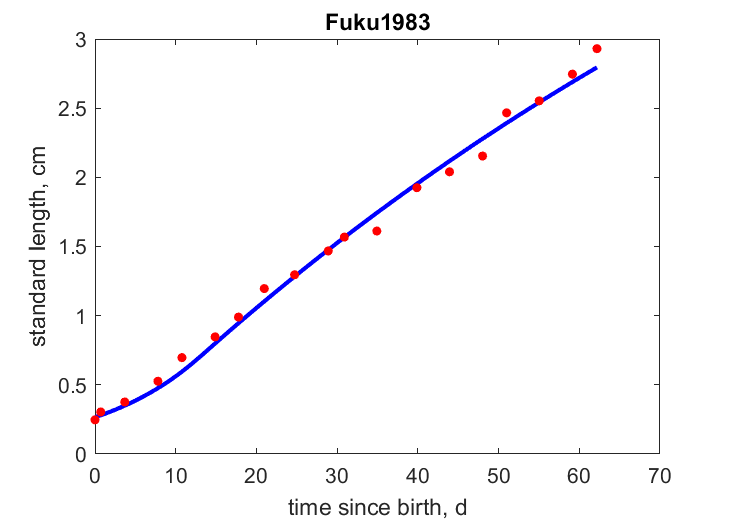
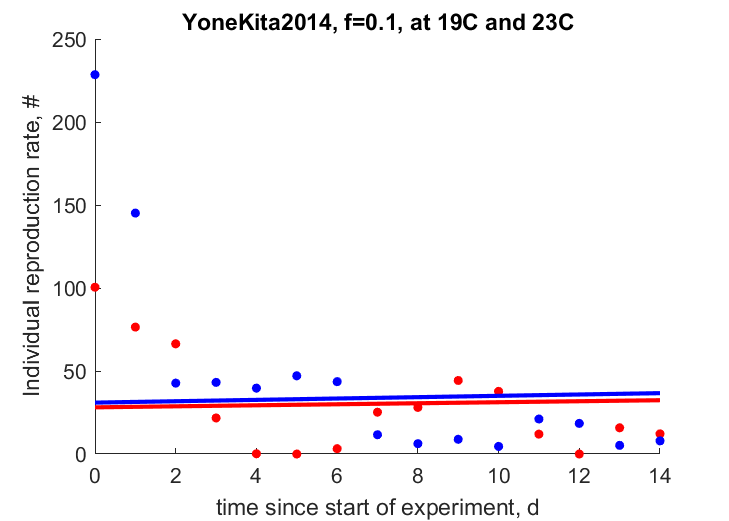
Added the remaining t-R datasets
Added the other t-R datasets, but unable to complete an nm estimation.

diff --git a/Engraulis_japonicus_res.html b/Engraulis_japonicus_res.html
@@ -44,7 +44,7 @@
   </div>
 
   <div class="par">
-  <h4>COMPLETE = 2.5; MRE =    0.092; SMSE =    0.109 </h4>
+  <h4>COMPLETE = 2.5; MRE =    0.182; SMSE =    0.309 </h4>
   </div>
 
   <p class="clear"></p>
@@ -69,6 +69,10 @@
     <TR><TD colspan="2">see figure</TD> <TD>0.06507</TD> <TD>Tah</TD> <TD colspan="2">temperature, <font color="blue"><i>vs.</i></font> age at hatching</TD>
     <TR><TD colspan="2">see figure</TD> <TD>0.2239</TD> <TD>tR_f1_19</TD> <TD colspan="2">time since start of experiment, <font color="blue"><i>vs.</i></font> Individual reproduction rate</TD>
     <TR><TD colspan="2">see figure</TD> <TD>0.2084</TD> <TD>tR_f1_23</TD> <TD colspan="2">time since start of experiment, <font color="blue"><i>vs.</i></font> Individual reproduction rate</TD>
+    <TR><TD colspan="2">see figure</TD> <TD>0.4127</TD> <TD>tR_f35_19</TD> <TD colspan="2">time since start of experiment, <font color="blue"><i>vs.</i></font> Individual reproduction rate</TD>
+    <TR><TD colspan="2">see figure</TD> <TD>0.3729</TD> <TD>tR_f35_23</TD> <TD colspan="2">time since start of experiment, <font color="blue"><i>vs.</i></font> Individual reproduction rate</TD>
+    <TR><TD colspan="2">see figure</TD> <TD>0.8262</TD> <TD>tR_f0_19</TD> <TD colspan="2">time since start of experiment, <font color="blue"><i>vs.</i></font> Individual reproduction rate</TD>
+    <TR><TD colspan="2">see figure</TD> <TD>0.8349</TD> <TD>tR_f0_23</TD> <TD colspan="2">time since start of experiment, <font color="blue"><i>vs.</i></font> Individual reproduction rate</TD>
     <TR><TD colspan="2">see figure</TD> <TD>0.1272</TD> <TD>tL</TD> <TD colspan="2">time since birth, <font color="blue"><i>vs.</i></font> standard length</TD>
     <TR><TD colspan="2">see figure</TD> <TD>0.0382</TD> <TD>tLj</TD> <TD colspan="2">time since birth, <font color="blue"><i>vs.</i></font> standard length</TD>
     <TR><TD colspan="2">see figure</TD> <TD>0.1713</TD> <TD>LW</TD> <TD colspan="2">standard length, <font color="blue"><i>vs.</i></font> wet weight</TD>
@@ -105,7 +109,7 @@
     <TR><TD>h_a</TD> <TD>1/d^2</TD> <TD>3.179e-08</TD> <TD>0</TD> <TD>Weibull aging acceleration</TD></TR>
     <TR><TD>s_G</TD> <TD>-</TD> <TD>0.0001</TD> <TD>0</TD> <TD>Gompertz stress coefficient</TD></TR>
     <TR><TD>E_Hh</TD> <TD>J</TD> <TD>0.0616</TD> <TD>0</TD> <TD>maturity at hatching</TD></TR>
-    <TR><TD>E_Hpm</TD> <TD>J</TD> <TD>5767</TD> <TD>1</TD> <TD>maturity at puberty for males</TD></TR>
+    <TR><TD>E_Hpm</TD> <TD>J</TD> <TD>5767</TD> <TD>0</TD> <TD>maturity at puberty for males</TD></TR>
     <TR><TD>del_M</TD> <TD>-</TD> <TD>0.2011</TD> <TD>1</TD> <TD>shape coefficient for standard length</TD></TR>
     <TR><TD>f</TD> <TD>-</TD> <TD>  1</TD> <TD>0</TD> <TD>scaled functional response for 0-var data</TD></TR>
     <TR><TD>f_0</TD> <TD>-</TD> <TD>0.1</TD> <TD>1</TD> <TD>scaled functional response for N-T 0 food data</TD></TR>

diff --git a/mydata_Engraulis_japonicus.m b/mydata_Engraulis_japonicus.m
@@ -116,16 +116,12 @@ bibkey.tR_f1_23 = 'YoneKita2014';
 comment.tR_f1_23 = 'Mean # of eggs in tank per day from 50 individuals, averaged from 2 tanks of 50 individuals with identical treatment. Adults of unknown weight and age. Avg length one week before data = 9.63cm Body Length. Food treatment after 1 week ad libitum acclimation period. Ad libitum considered 5% BW d^−1, low food considered 1.75% BW d^−1';
 L0.tR_f1_23 = 9.63; units.L0.tR_f1_23 = 'cm'; label.L0.tR_f1_23 = 'Avg body length one week before data';
 
-%{
-% @Neil: you need to divide by 50 here and later (I included in tR_f1_23); also change labels to R (marking the repro rate) 
-as oposed to N (number of eggs) because it is more accurate. Sorry, I forgot about this when proposing N :)
-
 data.tR_f35_19 = [... %time since start of feeding experiment (d) - Daily reproduction (#eggs) 
-0	1	2	3	4	5	6	7	8	9	10	11	12	13	14
-6345	9015.5	8308	4626.5	7913.5	6416	3161.5	5886.5	7306	5266	2375.5	3333.5	1360.5	2496	4965.5
+0 1	2 3 4 5 6 7 8 9 10 11 12 13 14
+6345 9015.5 8308 4626.5 7913.5 6416 3161.5 5886.5 7306 5266 2375.5 3333.5 1360.5 2496 4965.5
 ]';
 data.tR_f35_19(:,2) = data.tR_f35_19(:,2)/50; % # of eggs in tank per day / # of individuals in tank
-units.tR_f35_19  = {'d', '#'};  label.tR_f35_19 = {'time since start of experiment', 'daily # of eggs'};  
+units.tR_f35_19  = {'d', '#'};  label.tR_f35_19 = {'time since start of experiment', 'Individual reproduction rate'};  
 temp.tR_f35_19   = C2K(19.5);  units.temp.tR_f35_19 = 'K'; label.temp.tR_f35_19 = 'temperature';
 bibkey.tR_f35_19 = 'YoneKita2014';
 comment.tR_f35_19 = 'Mean # of eggs in tank per day from 50 individuals, averaged from 2 tanks of 50 individuals with identical treatment. Adults of unknown weight and age. Avg length one week before data = 9.4cm Body Length. Food treatment after 1 week ad libitum acclimation period. Ad libitum considered 5% BW d^−1, low food considered 1.75% BW d^−1';
@@ -136,8 +132,8 @@ data.tR_f35_23 = [... %time since start of feeding experiment (d) - Daily reprod
 14210	15548	3830.5	8146.5	8980.5	10675.5	6743.5	5281	5690	5314	6043	5549	4766.5	6080.5	3704.5
 ]';
 data.tR_f35_23(:,2) = data.tR_f35_23(:,2)/50; % # of eggs in tank per day / # of individuals in tank
-units.tR_f35_23  = {'d', '#'};  label.tR_f35_23 = {'time since start of experiment', 'daily # of eggs'};  
-temp.tR_f35_23   = C2K(23.7);  units.temp.tR_f35_23 = 'K'; label.temp.tR_f35_23 = 'temperature';
+units.tR_f35_23 = {'d', '#'};  label.tR_f35_23 = {'time since start of experiment', 'Individual reproduction rate'};  
+temp.tR_f35_23 = C2K(23.7);  units.temp.tR_f35_23 = 'K'; label.temp.tR_f35_23 = 'temperature';
 bibkey.tR_f35_23 = 'YoneKita2014';
 comment.tR_f35_23 = 'Mean # of eggs in tank per day from 50 individuals, averaged from 2 tanks of 50 individuals with identical treatment. Adults of unknown weight and age. Avg length one week before data = 9.63cm Body Length. Food treatment after 1 week ad libitum acclimation period. Ad libitum considered 5% BW d^−1, low food considered 1.75% BW d^−1';
 L0.tR_f35_23 = 9.63;  units.L0.tR_f35_23 = 'cm'; label.L0.tR_f35_23 = 'Avg body length one week before data';
@@ -146,8 +142,8 @@ data.tR_f0_19 = [... %time since start of feeding experiment (d) - Daily reprodu
 0	1	2	3	4	5	6	7	8	9	10	11	12	13	14
 5024	3823	3318	1084.5	7	0	160.5	1258.5	1403.5	2214.5	1887.5	599	0	789.5	607
 ]';
-data.tR_f35_19(:,2) = data.tR_f35_19(:,2)/50; % # of eggs in tank per day / # of individuals in tank
-units.tR_f0_19  = {'d', '#'};  label.tR_f0_19 = {'time since start of experiment', 'daily # of eggs'};  
+data.tR_f0_19(:,2) = data.tR_f0_19(:,2)/50; % # of eggs in tank per day / # of individuals in tank
+units.tR_f0_19  = {'d', '#'};  label.tR_f0_19 = {'time since start of experiment', 'Individual reproduction rate'};  
 temp.tR_f0_19 = C2K(19.5);  units.temp.tR_f0_19 = 'K'; label.temp.tR_f0_19 = 'temperature';
 bibkey.tR_f0_19 = 'YoneKita2014';
 comment.tR_f0_19 = 'Mean # of eggs in tank per day from 50 individuals, averaged from 2 tanks of 50 individuals with identical treatment. Adults of unknown weight and age. Avg length one week before data = 9.4cm Body Length. Food treatment after 1 week ad libitum acclimation period. Ad libitum considered 5% BW d^−1, low food considered 1.75% BW d^−1';
@@ -158,12 +154,11 @@ data.tR_f0_23 = [... %time since start of feeding experiment (d) - Daily reprodu
 11425	7257	2135.5	2156.5	1983.5	2355	2179.5	580.5	311	443.5	228	1054.5	921.5	261.5	395.5
 ]';
 data.tR_f0_23(:,2) = data.tR_f0_23(:,2)/50; % # of eggs in tank per day / # of individuals in tank
-units.tR_f0_23 = {'d', '#'}; label.tR_f0_23 = {'time since start of experiment', 'daily # of eggs'};  
+units.tR_f0_23 = {'d', '#'}; label.tR_f0_23 = {'time since start of experiment', 'Individual reproduction rate'};  
 temp.tR_f0_23 = C2K(23.7); units.temp.tR_f0_23 = 'K'; label.temp.tR_f0_23 = 'temperature';
 bibkey.tR_f0_23 = 'YoneKita2014';
 comment.tR_f0_23 = 'Mean # of eggs in tank per day from 50 individuals, averaged from 2 tanks of 50 individuals with identical treatment. Adults of unknown weight and age. Avg length one week before data = 9.63cm Body Length. Food treatment after 1 week ad libitum acclimation period. Ad libitum considered 5% BW d^−1, low food considered 1.75% BW d^−1';
 L0.tR_f0_23 = 9.63;  units.L0.tR_f0_23 = 'cm'; label.L0.tR_f0_23 = 'Avg body length one week before data';
-%}
 
 % time-Length
 data.tL = [ ... % time since birth (d), standard length (cm)
@@ -215,9 +210,11 @@ txtData.comment = comment;
 
 %% Group plots
 set1 = {'tR_f1_19','tR_f1_23'}; comment1 = {'YoneKita2014, f=1, at 19C and 23C'};
-metaData.grp.sets = {set1};
-metaData.grp.comment = {comment1};
-
+set2 = {'tR_f35_19','tR_f35_23'}; comment2 = {'YoneKita2014, f=0.35, at 19C and 23C'};
+set3 = {'tR_f0_19','tR_f0_23'}; comment3 = {'YoneKita2014, f=0.1, at 19C and 23C'};
+metaData.grp.sets = {set1,set2,set3};
+metaData.grp.comment = {comment1,comment2,comment3};
+%}
 %% Discussion points
 D1 = 'Added ____ as part of DEB School 2021';
 D2 = 'The data in this entry may be biased towards the Japanese populations of E. japonicus. Uncertain if parameters are the same for other areas e.g. Yellow Sea';

diff --git a/predict_Engraulis_japonicus.m b/predict_Engraulis_japonicus.m
@@ -96,7 +96,6 @@ end
  % initial
   pars_UE0 = [V_Hb; g; k_J; k_M; v]; % compose parameter vector
   U_E0  = initial_scaled_reserve(f, pars_UE0); % d.cm^2, initial scaled reserve
-%  E0    = U_E0 * p_Am;               % J, initial energy in egg
   
   % time-length
   [t_j t_p t_b l_j l_p l_b l_i rho_j rho_B] = get_tj(pars_tj, f_tL);
@@ -138,26 +137,48 @@ end
   L_f1_23 = L_i - (L_i - L_1) * exp( - rT_B * tR_f1_23(:,1)); % cm, expected structural length throughout experiment 
   ER_f1_23 = reprod_rate_j(L_f1_23, f_tR, pars_R);
   
-  % t-R exp3, f=0.35, temp = 19C  --> something like this
-%   [~ , ~,  ~ , ~,  ~, ~,  l_i , ~, rho_B] = get_tj(pars_tj, f_35);
-%  rT_B = rho_B * k_M * TC_19; L_i = l_i * L_m; % 1/d, von Bert growth rate and L_i for the first week (f= ad libitum)
-%   L_1 = L_i - (L_i - L0.tR_f35_19*del_M) * exp( - rT_B * 7); % cm, expected structural length at start of experiment 
-%   % get predictions for (structural) length throughout experiment; Li and rB will later be different because it depends on f
-%   L_f35_23 = L_i - (L_i - L_1) * exp( - rT_B * tR_f35_19(:,1)); % cm, expected structural length throughout experiment 
-%   ER_f35_19 = reprod_rate_j(L_f35_19, f_tR, pars_R);
-  
+% t-R exp3, f=0.35, temp = 19C  
+   [~ , ~,  ~ , ~,  ~, ~,  l_i , ~, rho_B] = get_tj(pars_tj, f_tR);
+  rT_B = rho_B * k_M * TC_19; L_i = l_i * L_m; % 1/d, von Bert growth rate and L_i for the first week (f= ad libitum)
+   L_1 = L_i - (L_i - L0.tR_f35_19*del_M) * exp( - rT_B * 7); % cm, expected structural length at start of experiment 
+ % get predictions for (structural) length throughout experiment; Li and rB will later be different because it depends on f
+   L_f35_19 = L_i - (L_i - L_1) * exp( - rT_B * tR_f35_19(:,1)); % cm, expected structural length throughout experiment 
+   ER_f35_19 = reprod_rate_j(L_f35_19, f_35, pars_R);
+   
+ % t-R exp4, f=0.35, temp = 23C 
+   [~ , ~,  ~ , ~,  ~, ~,  l_i , ~, rho_B] = get_tj(pars_tj, f_tR);
+  rT_B = rho_B * k_M * TC_23; L_i = l_i * L_m; % 1/d, von Bert growth rate and L_i for the first week (f= ad libitum)
+   L_1 = L_i - (L_i - L0.tR_f35_23*del_M) * exp( - rT_B * 7); % cm, expected structural length at start of experiment 
+ % get predictions for (structural) length throughout experiment; Li and rB will later be different because it depends on f
+   L_f35_23 = L_i - (L_i - L_1) * exp( - rT_B * tR_f35_23(:,1)); % cm, expected structural length throughout experiment 
+   ER_f35_23 = reprod_rate_j(L_f35_23, f_35, pars_R);
+   
+% t-R exp5, f=0.1, temp = 19C  
+   [~ , ~,  ~ , ~,  ~, ~,  l_i , ~, rho_B] = get_tj(pars_tj, f_tR);
+  rT_B = rho_B * k_M * TC_19; L_i = l_i * L_m; % 1/d, von Bert growth rate and L_i for the first week (f= ad libitum)
+   L_1 = L_i - (L_i - L0.tR_f0_19*del_M) * exp( - rT_B * 7); % cm, expected structural length at start of experiment 
+ % get predictions for (structural) length throughout experiment; Li and rB will later be different because it depends on f
+   L_f0_19 = L_i - (L_i - L_1) * exp( - rT_B * tR_f0_19(:,1)); % cm, expected structural length throughout experiment 
+   ER_f0_19 = reprod_rate_j(L_f0_19, f_0, pars_R);
+   
+% t-R exp6, f=0.1, temp = 23C 
+   [~ , ~,  ~ , ~,  ~, ~,  l_i , ~, rho_B] = get_tj(pars_tj, f_tR);
+  rT_B = rho_B * k_M * TC_23; L_i = l_i * L_m; % 1/d, von Bert growth rate and L_i for the first week (f= ad libitum)
+   L_1 = L_i - (L_i - L0.tR_f0_23*del_M) * exp( - rT_B * 7); % cm, expected structural length at start of experiment 
+ % get predictions for (structural) length throughout experiment; Li and rB will later be different because it depends on f
+   L_f0_23 = L_i - (L_i - L_1) * exp( - rT_B * tR_f0_23(:,1)); % cm, expected structural length throughout experiment 
+   ER_f0_23 = reprod_rate_j(L_f0_23, f_0, pars_R);
   
 % pack to output
 
   prdData.Tah = Eah;
   prdData.tR_f1_19 = ER_f1_19;
   prdData.tR_f1_23 = ER_f1_23;
- %{
- prdData.tN_f35_19 = EN_f35_19;
-  prdData.tN_f0_19 = EN_f0_19;
-    prdData.tN_f35_23 = EN_f35_23;
-  prdData.tN_f0_23 = EN_f0_23;
-   %}
+  prdData.tR_f35_19 = ER_f35_19
+  prdData.tR_f35_23 = ER_f35_23;
+  prdData.tR_f0_19 = ER_f0_19; 
+  prdData.tR_f0_23 = ER_f0_23;
+ 
   prdData.tp_20 = tT_p20;
   prdData.tp_26 = tT_p26; 
   prdData.tL = ELw;

diff --git a/pars_init_Engraulis_japonicus.m b/pars_init_Engraulis_japonicus.m
@@ -26,7 +26,7 @@ par.s_G = 0.0001;     free.s_G   = 0;   units.s_G = '-';          label.s_G = 'G
 
 %% other parameters 
 par.E_Hh = 6.160e-02; free.E_Hh  = 0;   units.E_Hh = 'J';         label.E_Hh = 'maturity at hatching'; 
-par.E_Hpm = 5.767e+03; free.E_Hpm = 1;   units.E_Hpm = 'J';        label.E_Hpm = 'maturity at puberty for males'; 
+par.E_Hpm = 5.767e+03; free.E_Hpm = 0;   units.E_Hpm = 'J';        label.E_Hpm = 'maturity at puberty for males'; 
 par.del_M = 0.20112;  free.del_M = 1;   units.del_M = '-';        label.del_M = 'shape coefficient for standard length'; 
 par.f = 1;            free.f     = 0;   units.f = '-';            label.f = 'scaled functional response for 0-var data'; 
 par.f_0 = 0.1;       free.f_0   = 1;   units.f_0 = '-';          label.f_0 = 'scaled functional response for N-T 0 food data'; 
